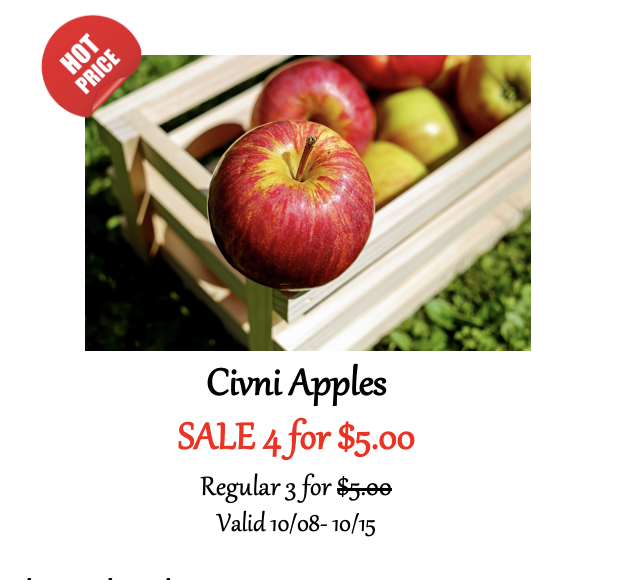
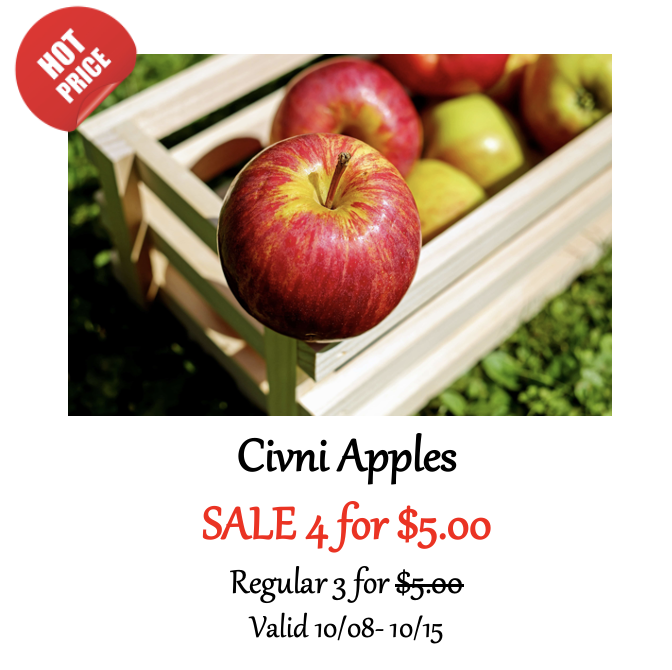
styles

diff --git a/client/src/components/Summary/Index.js b/client/src/components/Summary/Index.js
@@ -3,58 +3,52 @@ import { styled } from "@mui/material/styles";
 import Table from "@mui/material/Table";
 import TableBody from "@mui/material/TableBody";
 import TableCell, { tableCellClasses } from "@mui/material/TableCell";
-import TableContainer from "@mui/material/TableContainer";
 import TableHead from "@mui/material/TableHead";
-import TableRow from "@mui/material/TableRow";
+import { Button } from "@mui/material";
+import TableContainer from "@mui/material/TableContainer";
 
 function Summary() {
+  const StyledTableCell = styled(TableCell)(({ theme }) => ({
+    [`&.${tableCellClasses.head}`]: {
+      backgroundColor: theme.palette.success.main,
+      color: theme.palette.common.white,
+      fontSize: 25,
+      fontFamily: "Gabriela , serif",
+    },
 
-    const StyledTableCell = styled(TableCell)(({ theme }) => ({
-        [`&.${tableCellClasses.head}`]: {
-          backgroundColor: theme.palette.success.main,
-          color: theme.palette.common.white,
-          fontSize: 25,
-          fontFamily: "Gabriela , serif",
-          top: "50%",
-    left: "50%",
-    width: "80%",
-        },
-      
-        [`&.${tableCellClasses.body}`]: {
-          fontSize: 20,
-          fontFamily: "Gabriela , serif",
-          width: "20%",
-        },
-      }));
-      
-      const StyledTableRow = styled(TableRow)(({ theme }) => ({
-        "&:nth-of-type(odd)": {
-          backgroundColor: theme.palette.action.hover,
-          fontFamily: "Gabriela , serif",
-        },
-        "&:last-child td, &:last-child th": {
-          border: 1,
-        },
-      }));
+    [`&.${tableCellClasses.body}`]: {
+      fontSize: 20,
+      fontFamily: "Gabriela , serif",
+    },
+  }));
 
   return (
-    <div>
-      <TableContainer>
-        <Table>
-          <TableHead>
-            <TableRow>
-              <StyledTableCell>Order Summary</StyledTableCell>
-            </TableRow>
-          </TableHead>
-          <TableBody>
-            <StyledTableRow>
-             Total: $
-            </StyledTableRow>
-          </TableBody>
-     
-        </Table>
-      </TableContainer>
-    </div>
+    <TableContainer className="summary">
+      <Table
+  
+      >
+        <TableHead>
+          <StyledTableCell>Order Summary</StyledTableCell>
+          {/* <StyledTableCell align="right">Quantity</StyledTableCell> */}
+        </TableHead>
+        <TableBody>
+          <StyledTableCell component="th" scope="row">
+            Total: $
+          </StyledTableCell>
+        </TableBody>
+      </Table>
+      <Button
+        variant="contained"
+        color="success"
+        style={{
+          margin: "5%",
+          alignSelf: "center",
+          display: "grid",
+        }}
+      >
+        Checkout
+      </Button>
+    </TableContainer>
   );
 }
 

diff --git a/client/src/pages/Cart.js b/client/src/pages/Cart.js
@@ -5,8 +5,6 @@ import TableBody from "@mui/material/TableBody";
 import TableCell, { tableCellClasses } from "@mui/material/TableCell";
 import TableContainer from "@mui/material/TableContainer";
 import TableHead from "@mui/material/TableHead";
-import TableRow from "@mui/material/TableRow";
-import { Button } from "@mui/material";
 import Summary from "../components/Summary/Index";
 
 const StyledTableCell = styled(TableCell)(({ theme }) => ({
@@ -23,56 +21,31 @@ const StyledTableCell = styled(TableCell)(({ theme }) => ({
   },
 }));
 
-const StyledTableRow = styled(TableRow)(({ theme }) => ({
-  "&:nth-of-type(odd)": {
-    backgroundColor: theme.palette.action.hover,
-    fontFamily: "Gabriela , serif",
-  },
-  "&:last-child td, &:last-child th": {
-    border: 0,
-  },
-}));
-
 function Cart() {
   return (
     <>
-      <div className="cart">
-        <h2 style={{ fontSize: "50px" }}>My Cart</h2>
-        <TableContainer>
-          <Table sx={{ minWidth: "80%" }} aria-label="customized table">
+      <h2 style={{ fontSize: "50px" }}>Users Cart</h2>
+      <section>
+        <TableContainer className="table" style={{width: "220%"}}>
+          <Table 
+          >
             <TableHead>
-              <TableRow>
-                <StyledTableCell>Total Items</StyledTableCell>
-                <StyledTableCell align="right"></StyledTableCell>
-                <StyledTableCell align="right">Quantity</StyledTableCell>
-              </TableRow>
+                <StyledTableCell>Products</StyledTableCell>
+                <StyledTableCell align="right">item-Price</StyledTableCell>
             </TableHead>
             <TableBody>
-              <StyledTableRow>
-                {" "}
-                Products
-                <StyledTableCell component="th" scope="row">
-                  Products
-                </StyledTableCell>
-                <StyledTableCell align="right"></StyledTableCell>
-                <StyledTableCell align="right"></StyledTableCell>
-              </StyledTableRow>
+              <StyledTableCell component="th" scope="row">
+                Images/description
+              </StyledTableCell>
+              <StyledTableCell align="right">QTY</StyledTableCell>
             </TableBody>
-            <Button
-              variant="contained"
-              color="success"
-              style={{
-                margin: "5%",
-                alignSelf: "center",
-                display: "grid",
-              }}
-            >
-              Checkout
-            </Button>
           </Table>
         </TableContainer>
-        <Summary />
-      </div>
+           <Summary />
+        <div className="cart">
+       
+        </div>
+      </section>
     </>
   );
 }

diff --git a/client/src/components/Coupons/couponsIndex.js b/client/src/components/Coupons/couponsIndex.js
@@ -1,30 +1,31 @@
 import React from "react";
-// import photo from "../../assets/cupons/almond.png"
+import "./style.css"
 
 function Coupons() {
   const sales = [
     {
-      src: require("../../assets/cupons/almond.png").default,
+        
+      src: require("../../assets/cupons/almond.png"),
     },
     {
 
-      src: require("../../assets/cupons/apples.png").default,
+      src: require("../../assets/cupons/apples.png"),
     },
     {
 
-      src: require("../../assets/cupons/pears.png").default,
+      src: require("../../assets/cupons/pears.png"),
     },
     {
 
-      src: require("../../assets/cupons/peppers.png").default,
+      src: require("../../assets/cupons/peppers.png"),
     },
     {
 
-      src: require("../../assets/cupons/pumpkins.png").default,
+      src: require("../../assets/cupons/pumpkins.png"),
     },
     {
 
-      src: require("../../assets/cupons/salmon.png").default,
+      src: require("../../assets/cupons/salmon.png"),
     },
   ];
   return (
@@ -35,7 +36,6 @@ function Coupons() {
             <img
               src={src}
               alt="hello"
-              style={{ width: "400px", height: "250px" }}
             ></img>
           </ul>
         ))}

diff --git a/client/src/index.css b/client/src/index.css
@@ -4,7 +4,8 @@
   box-sizing: border-box;
 }
 :root {
-  font-family: 'Gabriela', serif;
+  
+  font-family: "Gabriela", serif;
 }
 body {
   margin: 0;
@@ -14,5 +15,16 @@ body {
 }
 
 code {
-  font-family: 'Gabriela', serif;
+  font-family: "Gabriela", serif;
+}
+
+section {
+  display: flex;
+  align-items: flex-start;
+  margin: 10px 10px;
+}
+
+.table {
+  margin-right: 30px;
+
 }

diff --git a/client/src/components/Coupons/style.css b/client/src/components/Coupons/style.css
@@ -1,0 +1,5 @@
+.cards {
+    display: flex;
+    justify-content: center;
+    flex-wrap: wrap;
+}
